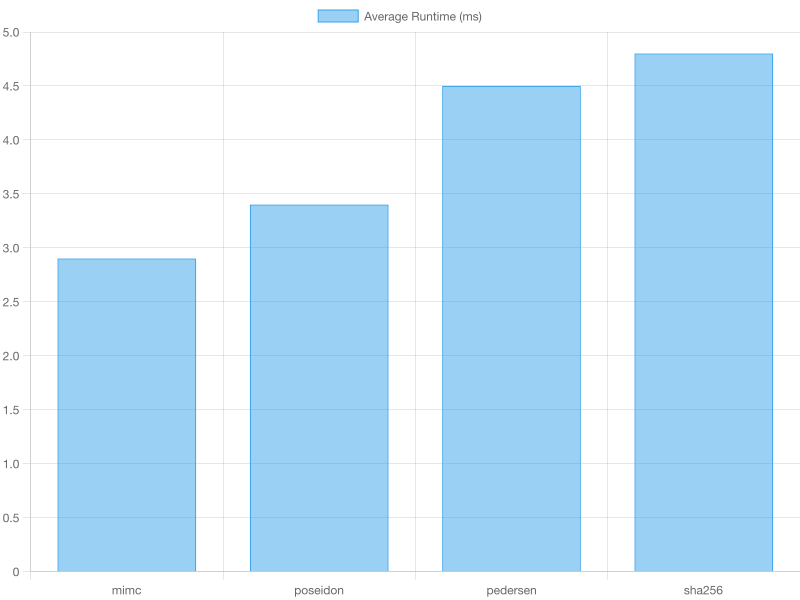
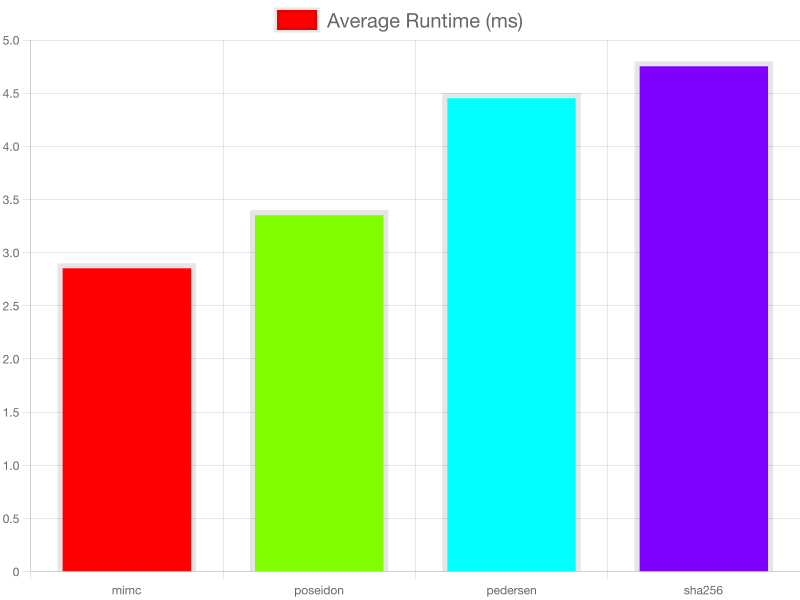
added colors to the bars

diff --git a/visualizor.js b/visualizor.js
@@ -13,7 +13,11 @@ async function generateBarGraph(labels, data, path, label) {
             datasets: [{
                 label: label,
                 data: data,
-                borderWidth: 1
+                backgroundColor: labels.map((label, index) => {
+                    const hue = Math.round(360 * index / labels.length);
+                    return `hsl(${hue}, 100%, 50%)`;
+                }),
+                borderWidth: 5
             }]
         },
         options: {
